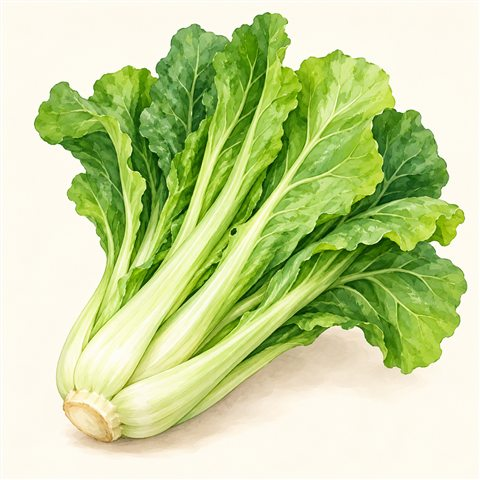
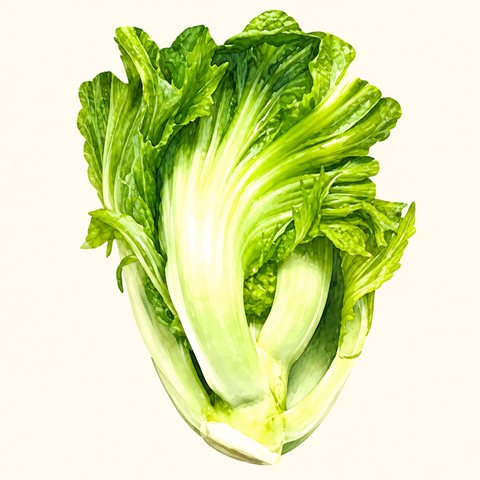
Update large mustard greens art and cherry tomato label

diff --git a/store-data.js b/store-data.js
@@ -999,7 +999,7 @@ window.PRODUCT_EN_NAMES = {
   "king-oyster-mushroom": "King Oyster Mushroom",
   "shimeji-mushroom": "Shimeji Mushroom",
   "tomato": "Tomato",
-  "jerry-tomato": "Jerry Tomato",
+  "jerry-tomato": "Cherry Tomato",
   "cabbage": "Cabbage (Cameron Highlands)",
   "cabbage-beijing": "Cabbage (Beijing)",
   "yuan-bai": "Yuan Bai / Chinese Cabbage",
